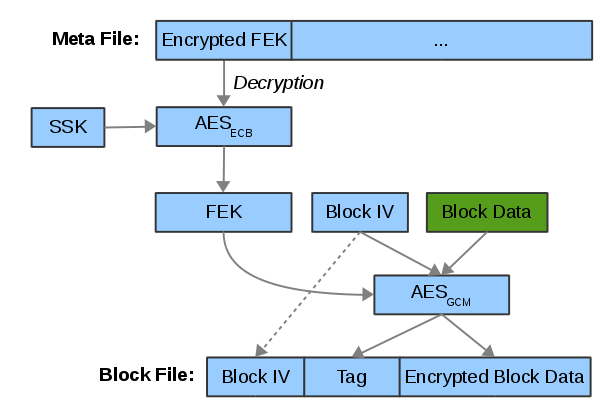
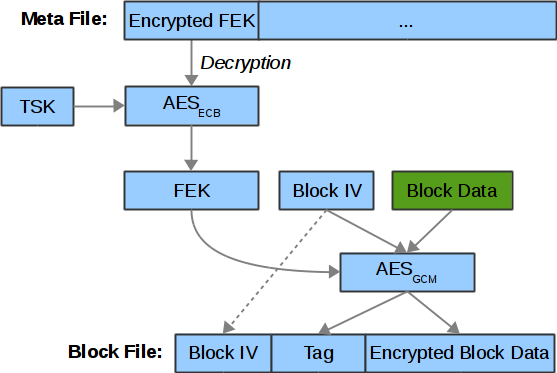
Cleanup documentation due to new TSK
[Rebase on top of master]

Changed region(s): [[0.0, 0.0, 1.0, 1.0]]

diff --git a/documentation/secure_storage.md b/documentation/secure_storage.md
@@ -159,6 +159,17 @@ to encrypt/decrypt the FEK.
 TSK is derived by:
 > TSK = HMAC<sub>SHA256</sub> (SSK, TA_UUID)
 
+#### TA storage space isolation
+
+OP-TEE provides different folders for different TAs in Linux file system for
+storing their own TEE files, but OP-TEE cannot prevent an attacker from
+directly copying a TEE file from one TA's folder to another TA's folder in
+Linux file system.
+
+The TSK offers an effective protection against this kind of attack. If an
+attacker copies an TEE file from one TA's folder to another TA's folder,
+this TA would not be able to obtain the plaintext of the TEE file.
+
 ### File Encryption Key (FEK)
 
 When a new TEE file is created, key manager will generate a new FEK by
@@ -232,18 +243,6 @@ These implementations should fetch the key data from your SoC-specific e-fuses,
 or crypto unit according to the method defined by your SoC vendor.
 
 ## Future Work
-
-- **TA storage space isolation**
-
-OP-TEE provides different folders for different TAs in Linux file system for
-storing their own TEE files, but OP-TEE cannot prevent an attacker from
-directly copying a TEE file from one TA's folder to another TA's folder in
-Linux file system. TEE OS should have the ability to detect those kind of
-attack, but for now OP-TEE secure storage doesn't meet the requirement.
-
-A simple solution to detect the attack is using TA's UUID as AAD
-when calculating the tag of meta file, so that OP-TEE will know if a TEE file
-belongs to a specific TA when the TA tries to open the TEE file.
 
 - **TEE file renaming attack detection**
 

diff --git a/documentation/secure_storage_rpmb.md b/documentation/secure_storage_rpmb.md
@@ -127,7 +127,7 @@ file, as follows:
 ```
 
 
-SSK and FEK handling is common with the REE-based secure storage, while the AES
+SSK, TSK and FEK handling is common with the REE-based secure storage, while the AES
 CBC block encryption is used only for RPMB (the REE implementation uses GCM).
 
 The FAT is not encrypted.
